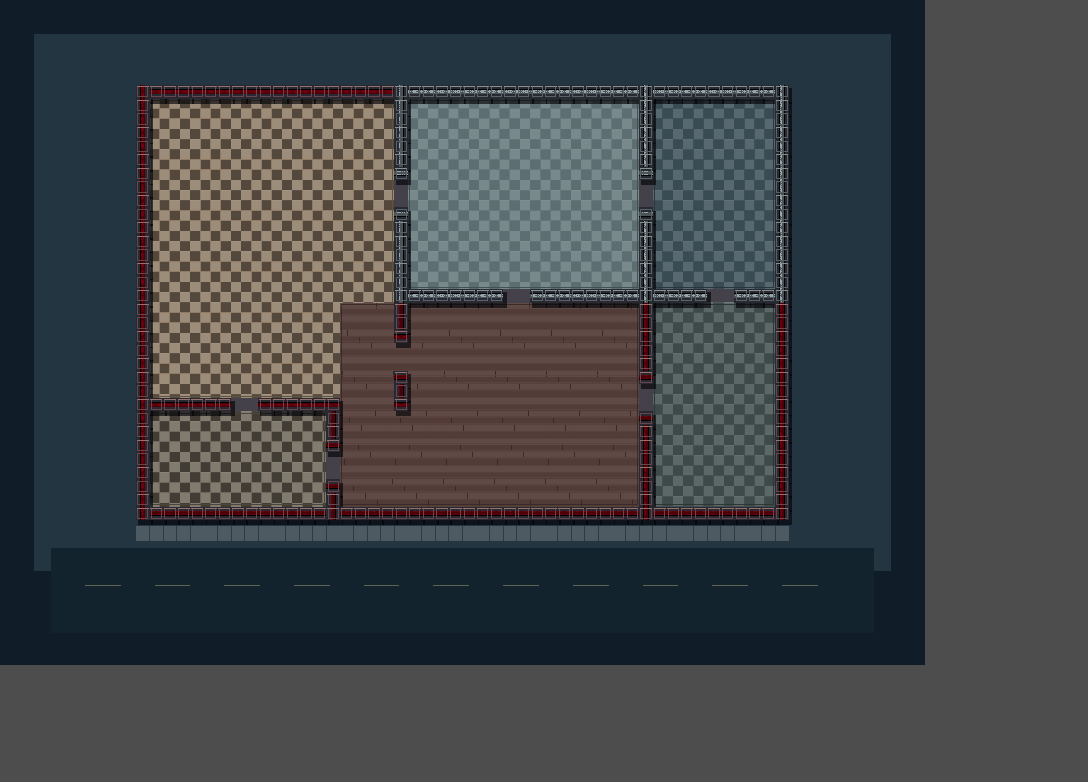
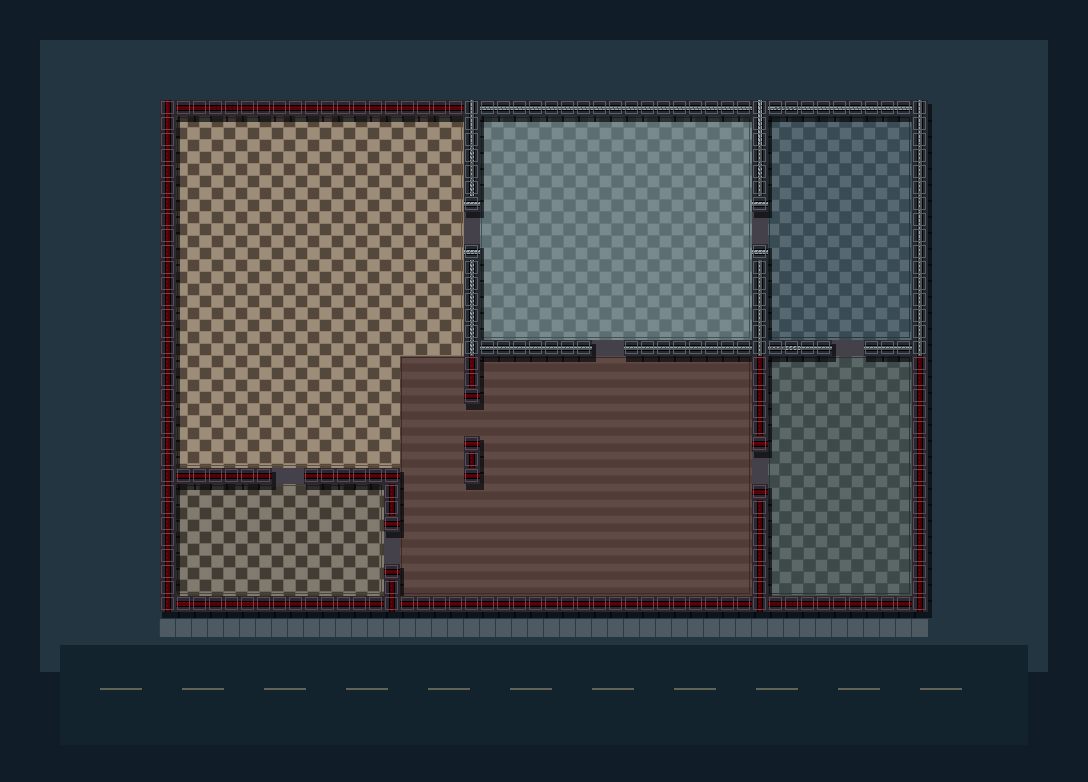
Align the floor bake to authored geometry independently of window stretch

diff --git a/HANDOFF_2026-10-12.md b/HANDOFF_2026-10-12.md
@@ -24,7 +24,9 @@ Prior details are in HANDOFF_2026-10-11.md.
   finishes, coordinated room palettes, contact shadows, signs, window glow,
   14 shared-texture shadowless local lights and exterior rain/reflections.
 - Immutable floor/wall drawing is baked by native Godot into a 1088 × 782
-  texture. Live lighting, doors and physical geometry are separate. Native
+  texture. An isolated SubViewport avoids window-stretch scaling; real facade
+  and sidewalk pixel probes validate its authored-coordinate alignment. Live
+  lighting, doors and physical geometry are separate. Native
   frame counters fell from about 4700–4900 to 82–118 for desktop gameplay
   views; mobile controls used 152, full overview 223. These are software-GL
   counters and do not establish Android FPS.

diff --git a/assets/level3/LATE_SHIFT.md b/assets/level3/LATE_SHIFT.md
@@ -35,7 +35,9 @@ godot --path . --rendering-method gl_compatibility --audio-driver Dummy \
 godot --headless --path . --editor --quit
 ```
 
-This saves `materials/diner_floor.png` (1088 × 782). The PNG caches immutable
+This saves `materials/diner_floor.png` (1088 × 782) from an isolated SubViewport
+with an identity canvas transform, independent of the game's window stretch.
+The PNG caches immutable
 drawing commands, rather than lighting or gameplay geometry: normal live 2D
 lights still illuminate it, and doors/physics remain independent. Re-bake after
 changing the plan, room floor colors or supplied wall/grain sources.
